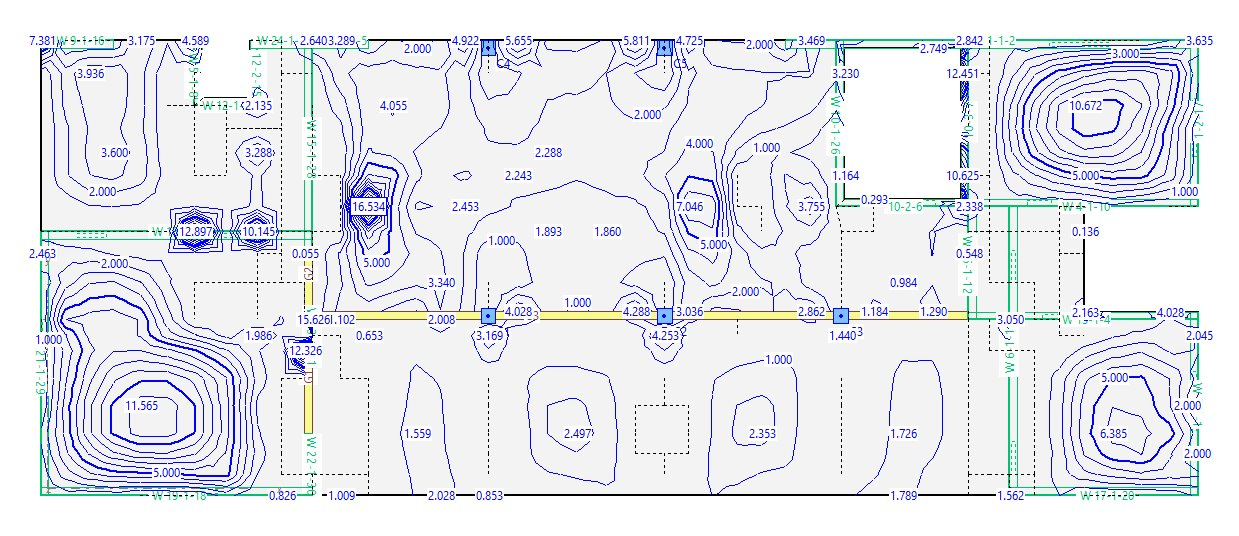
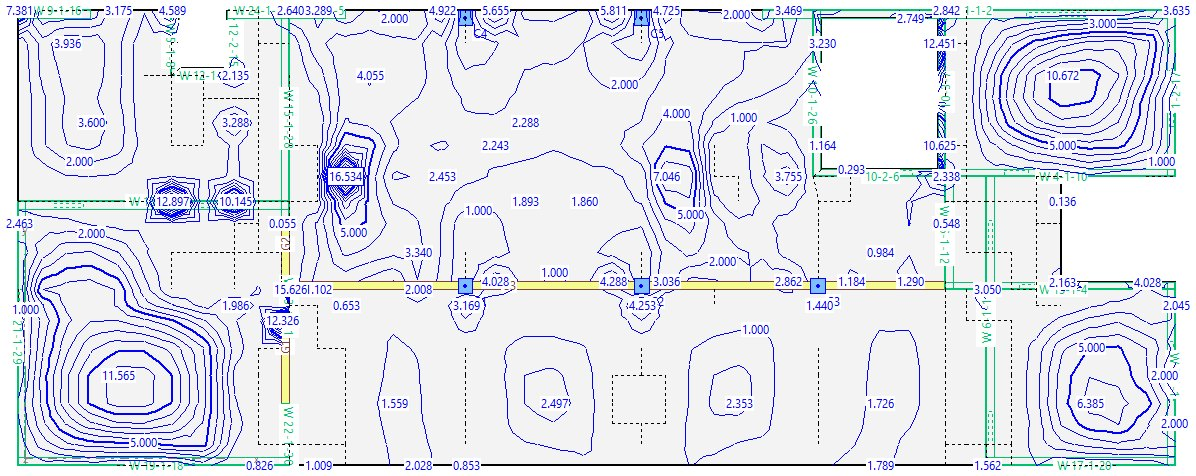
Imágenes actualizadas por Cubus AG (mismos nombres): edificio principal, comparador M/M+N, nx/ny de plantas acopladas e informe de LARIX
Claude-Session: https://claude.ai/code/session_01FGcKU2388qM5WEgyqbpXUN

diff --git a/index.html b/index.html
@@ -419,7 +419,7 @@ html{scroll-behavior:smooth}
         </div>
         <div class="media dos">
           <figure><div class="foto"><img src="img/cedrus-plantas-modelo.jpg" data-full="img/grande/cedrus-plantas-modelo.jpg" alt="Modelo de plantas acopladas de un edificio en CEDRUS" width="900" height="633" loading="lazy"></div><figcaption>Modelo de plantas acopladas</figcaption></figure>
-          <figure><div class="foto"><img src="img/cedrus-plantas-nvny.jpg" data-full="img/grande/cedrus-plantas-nvny.jpg" alt="Esfuerzos axiles nx y ny representados sobre losas y muros del edificio" width="900" height="696" loading="lazy"></div><figcaption>Esfuerzos nx, ny en el edificio</figcaption></figure>
+          <figure><div class="foto"><img src="img/cedrus-plantas-nvny.jpg" data-full="img/grande/cedrus-plantas-nvny.jpg" alt="Esfuerzos axiles nx y ny representados sobre losas y muros del edificio" width="900" height="786" loading="lazy"></div><figcaption>Esfuerzos nx, ny en el edificio</figcaption></figure>
         </div>
       </div>
 
@@ -452,8 +452,8 @@ html{scroll-behavior:smooth}
         <div class="media">
           <figure>
             <div class="comparar" style="--pos:50%">
-              <img src="img/grande/cedrus-armado-mn.jpg" alt="Isolíneas de armado de la losa dimensionada con momentos y axiles (M+N)" width="1239" height="536" loading="lazy">
-              <div class="comparar-izq" aria-hidden="true"><img src="img/grande/cedrus-armado-m.jpg" alt="" width="1239" height="536" loading="lazy"></div>
+              <img src="img/grande/cedrus-armado-mn.jpg" alt="Isolíneas de armado de la losa dimensionada con momentos y axiles (M+N)" width="1196" height="476" loading="lazy">
+              <div class="comparar-izq" aria-hidden="true"><img src="img/grande/cedrus-armado-m.jpg" alt="" width="1196" height="476" loading="lazy"></div>
               <span class="comparar-et izq">Solo M</span>
               <span class="comparar-et der">M+N</span>
               <div class="comparar-barra" aria-hidden="true"><span></span></div>
@@ -566,7 +566,7 @@ html{scroll-behavior:smooth}
     </div>
 
     <figure class="destacada">
-      <img src="img/grande/todos-modelos-grandes.jpg" alt="Modelo 3D de un proyecto muy grande con varios edificios en CEDRUS" width="1444" height="722" loading="lazy">
+      <img src="img/grande/todos-modelos-grandes.jpg" alt="Modelo 3D de un proyecto muy grande con varios edificios en CEDRUS" width="1355" height="984" loading="lazy">
       <figcaption>Fiable en el trabajo diario y con modelos muy grandes</figcaption>
     </figure>
 
